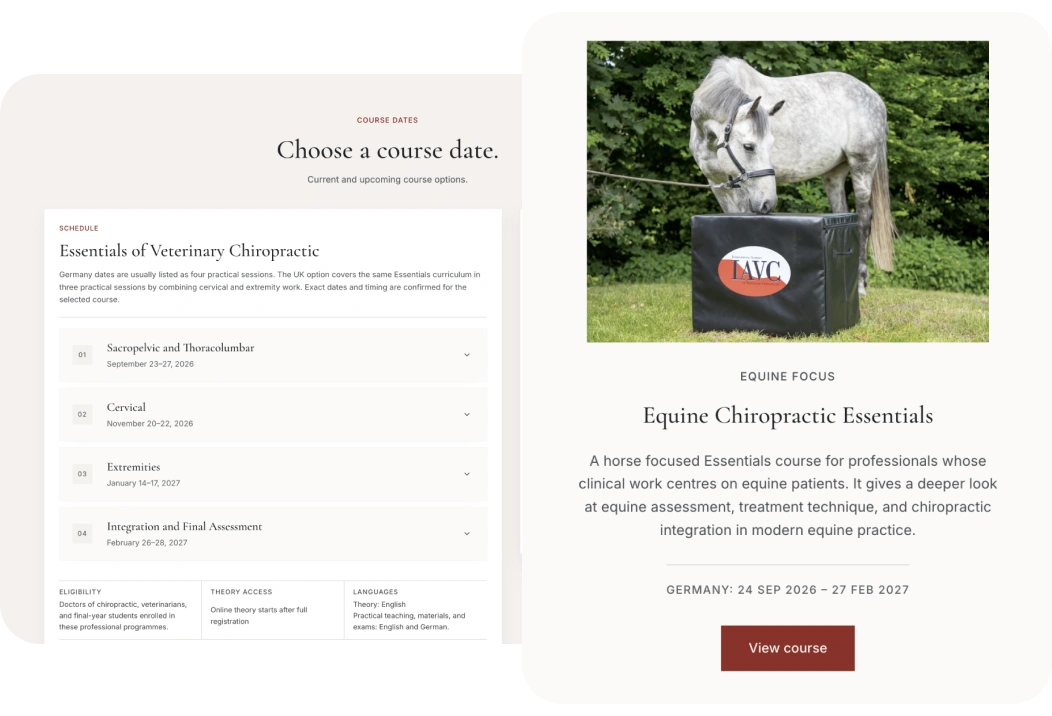
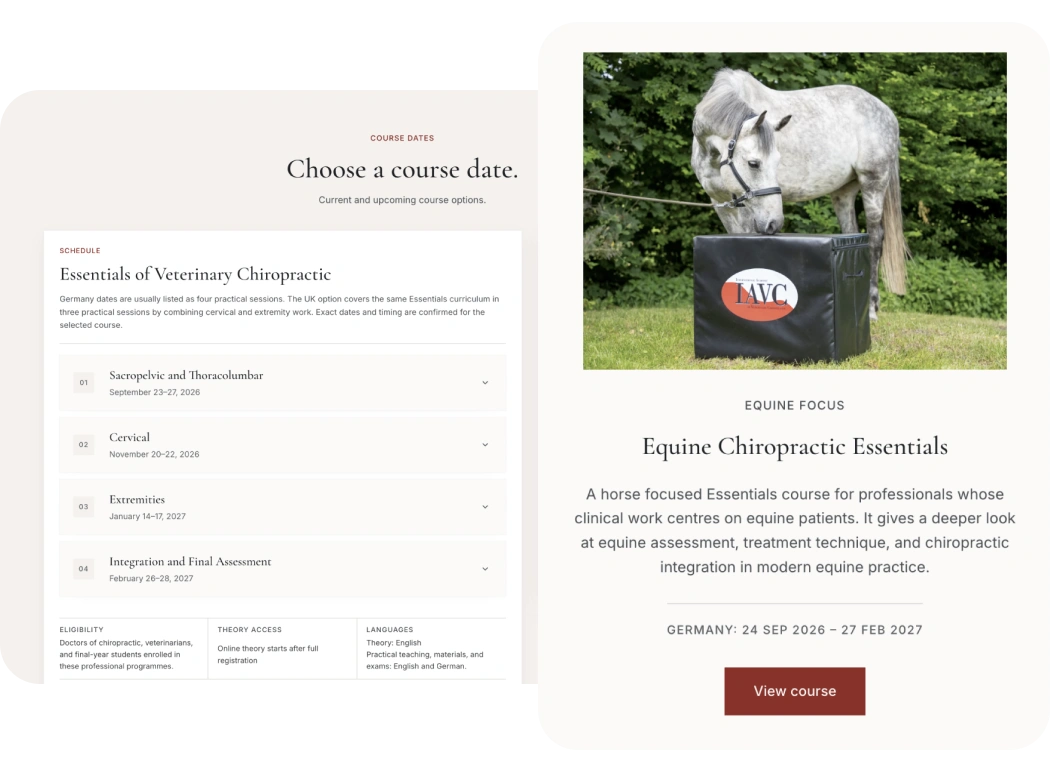
Refine responsive layout and case imagery

diff --git a/src/components/Header.module.css b/src/components/Header.module.css
@@ -55,14 +55,112 @@
 .menu > a:hover, .menu > a:focus-visible { background: var(--color-menu-hover); }
 .cta { justify-self: end; white-space: nowrap; height: auto; min-height: 44px; border-radius: var(--radius-button); }
 .cta:hover { text-decoration: none; }
-.toggle { display: none; }
+.toggle {
+  display: none;
+  width: 32px;
+  height: 32px;
+  padding: 5px;
+  color: var(--color-text-primary);
+  border: 0;
+  background: transparent;
+}
+
+.toggle span {
+  display: block;
+  width: 100%;
+  height: 1px;
+  margin-block: 4px;
+  background: currentColor;
+  transition: transform var(--duration-fast), opacity var(--duration-fast);
+}
+
+.toggle[aria-expanded='true'] span:first-child {
+  transform: translateY(5px) rotate(45deg);
+}
+
+.toggle[aria-expanded='true'] span:nth-child(2) {
+  opacity: 0;
+}
+
+.toggle[aria-expanded='true'] span:last-child {
+  transform: translateY(-5px) rotate(-45deg);
+}
+
 @media (max-width: 700px) {
-  .header { --header-top: var(--space-5); min-width: 0; display: flex; flex-wrap: wrap; justify-content: space-between; gap: 0; }
-  .toggle { display: flex; align-items: center; gap: var(--space-3); border: 0; background: transparent; min-height: 44px; padding: var(--space-3) var(--space-4); border-radius: var(--radius-button); }
-  .toggle:hover { background: var(--color-menu-hover); }
-  .nav { display: none; width: 100%; padding: var(--space-4) 0 var(--space-2); }
-  .open { display: flex; flex-direction: column; align-items: stretch; gap: var(--space-2); }
+  .header {
+    --header-top: var(--space-5);
+    min-width: 0;
+    grid-template-columns: minmax(0, 1fr) auto;
+    gap: var(--space-2);
+    background: transparent;
+    -webkit-backdrop-filter: none;
+    backdrop-filter: none;
+    box-shadow: none;
+  }
+
+  .header::before {
+    position: absolute;
+    z-index: -1;
+    inset: 0;
+    border-radius: inherit;
+    background: var(--color-header-glass);
+    -webkit-backdrop-filter: blur(var(--header-blur));
+    backdrop-filter: blur(var(--header-blur));
+    box-shadow:
+      0 2px 8px color-mix(in srgb, var(--color-text-primary) 2%, transparent),
+      0 12px 32px color-mix(in srgb, var(--color-text-primary) 4%, transparent);
+    content: '';
+  }
+
+  .toggle {
+    display: block;
+    margin-right: var(--space-2);
+  }
+  .toggle:hover,
+  .toggle[aria-expanded='true'],
+  .toggle[aria-expanded='true']:hover {
+    background: transparent;
+  }
+
+  .nav {
+    position: absolute;
+    top: calc(100% + var(--space-2));
+    right: 0;
+    left: 0;
+    width: 100%;
+    padding: var(--space-2);
+    display: flex;
+    flex-direction: column;
+    align-items: stretch;
+    gap: var(--space-2);
+    border: 1px solid color-mix(in srgb, var(--color-on-image) 38%, transparent);
+    border-radius: var(--radius-header);
+    background: var(--color-header-glass);
+    -webkit-backdrop-filter: blur(var(--header-blur)) saturate(125%);
+    backdrop-filter: blur(var(--header-blur)) saturate(125%);
+    box-shadow: 0 12px 32px color-mix(in srgb, var(--color-text-primary) 8%, transparent);
+    opacity: 0;
+    visibility: hidden;
+    pointer-events: none;
+    transform: translateY(-8px);
+    transition:
+      opacity var(--duration-fast),
+      transform var(--duration-fast),
+      visibility var(--duration-fast);
+  }
+
+  .open {
+    opacity: 1;
+    visibility: visible;
+    pointer-events: auto;
+    transform: translateY(0);
+  }
+
   .menu { flex-direction: column; align-items: stretch; }
+
+  .menu > a { justify-content: flex-start; }
+
+  .cta { width: 100%; }
 }
 
 @media (prefers-reduced-motion: reduce) {

diff --git a/src/data/content.ts b/src/data/content.ts
@@ -11,9 +11,9 @@ export const services: Service[] = [
   { title: 'Educational Platforms', icon: '/media/edu-icon.svg', description: 'We select and customize an LMS for your courses. We produce videos and course materials, upload lessons, and set up participant registration.' },
 ]
 export const cases: CaseStudy[] = [
-  { id: 'email-campaign', title: 'From choosing a service to a fully functional email campaign', description: 'We were asked to select a platform. We researched the options, set up the account, imported the contacts, and launched the campaign.', image: '/media/case-image-01.webp', alt: 'IAVC online course application form', width: 717, height: 663, surface: 'blue', before: ['Print the PDF.', 'Fill it out by hand.', 'Send a photo.'], after: ['Link from the email.', 'Fill out the form.', 'Submit the request.'], result: 'Course applications are now coming in through the online form.' },
-  { id: 'case-02', title: 'Website and Infrastructure', description: 'A new website with a CMS, migration of content and data. Domains and accounts are managed by the academy.', image: '/media/case-image-02.webp', alt: 'IAVC website shown at desktop and mobile sizes', width: 790, height: 460, surface: 'green' },
-  { id: 'case-03', title: 'Educational Platform', description: 'Selection of an LMS, preparation of videos and PDFs, lessons and questions developed in collaboration with instructors.', image: '/media/case-image-03.webp', alt: 'IAVC course listings for the horse and dog model and equine essentials', width: 790, height: 460, surface: 'greenStrong' },
+  { id: 'email-campaign', title: 'From choosing a service to a fully functional email campaign', description: 'We were asked to select a platform. We researched the options, set up the account, imported the contacts, and launched the campaign.', image: '/media/case-image-01.webp', alt: 'IAVC seminar request form with a successful submission confirmation', width: 1063, height: 772, surface: 'blue', before: ['Print the PDF.', 'Fill it out by hand.', 'Send a photo.'], after: ['Link from the email.', 'Fill out the form.', 'Submit the request.'], result: 'Course applications are now coming in through the online form.' },
+  { id: 'case-02', title: 'Website and Infrastructure', description: 'A new website with a CMS, migration of content and data. Domains and accounts are managed by the academy.', image: '/media/case-image-02.webp', alt: 'IAVC website homepage for animal chiropractic education', width: 1052, height: 772, surface: 'green' },
+  { id: 'case-03', title: 'Educational Platform', description: 'Selection of an LMS, preparation of videos and PDFs, lessons and questions developed in collaboration with instructors.', image: '/media/case-image-03.webp', alt: 'IAVC course schedule and equine chiropractic course page', width: 1052, height: 772, surface: 'greenStrong' },
 ]
 export const caseScreens: CaseScreen[] = [
   { id: 'email', cases: [cases[0]] },

diff --git a/src/sections/Experience.module.css b/src/sections/Experience.module.css
@@ -102,7 +102,7 @@
   width: min(var(--content-width), calc(100vw - var(--page-gutter) * 2));
   flex: 0 0 auto;
   display: grid;
-  grid-template-columns: minmax(0, 400px) minmax(0, 660px);
+  grid-template-columns: minmax(0, 450px) minmax(0, 660px);
   justify-content: space-between;
   align-items: center;
   gap: clamp(48px, 7vw, 120px);
@@ -111,12 +111,12 @@
 
 .caseCopy {
   width: 100%;
-  max-width: 400px;
+  max-width: 450px;
 }
 
 .caseCopy h3,
 .staticCopy h3 {
-  max-width: 400px;
+  max-width: 450px;
   margin-bottom: var(--space-6);
   font-family: var(--font-heading);
   font-size: 44px;
@@ -142,7 +142,7 @@
 }
 
 .description {
-  max-width: 400px;
+  max-width: 450px;
   color: var(--color-text-secondary);
   font-size: clamp(17px, 1.25vw, 20px);
   line-height: 1.55;
@@ -151,7 +151,7 @@
 .imageFrame {
   width: 100%;
   max-width: 660px;
-  aspect-ratio: 1.2;
+  aspect-ratio: 1.3;
   padding: clamp(40px, 2.6vw, 48px);
   display: grid;
   place-items: center;
@@ -193,7 +193,7 @@
 .comparison ul {
   padding: 0;
   list-style: none;
-  font-size: clamp(16px, 1.15vw, 19px);
+  font-size: var(--text-body);
   line-height: 1.75;
 }
 
@@ -215,7 +215,7 @@
 }
 
 .result {
-  max-width: 400px;
+  max-width: 450px;
   font-size: clamp(16px, 1.15vw, 19px);
   font-weight: 600;
   line-height: 1.5;
@@ -227,7 +227,6 @@
 
 @media (min-width: 1025px) {
   .description,
-  .comparison ul,
   .result {
     font-size: 16px;
   }
@@ -235,7 +234,7 @@
 
 @media (max-width: 1200px) and (min-width: 1025px) {
   .caseSlide {
-    grid-template-columns: minmax(0, 400px) minmax(0, 660px);
+    grid-template-columns: minmax(0, 450px) minmax(0, 660px);
     gap: 48px;
   }
 
@@ -248,7 +247,6 @@
     gap: 12px;
   }
 
-  .comparison ul,
   .result {
     font-size: 16px;
   }
@@ -284,7 +282,7 @@
 
   .staticCase {
     display: grid;
-    grid-template-columns: minmax(0, 400px) minmax(300px, 660px);
+    grid-template-columns: minmax(0, 450px) minmax(300px, 660px);
     justify-content: space-between;
     align-items: center;
     gap: var(--space-7);
@@ -309,7 +307,7 @@
     grid-column: 1;
     grid-row: 1;
     width: 100%;
-    max-width: 400px;
+    max-width: 450px;
   }
 
   .staticCopy h3 {
@@ -324,7 +322,7 @@
 
 @media (max-width: 700px) {
   .staticList {
-    gap: var(--space-8);
+    gap: var(--space-9);
   }
 
   .staticCase {
@@ -349,7 +347,7 @@
 
   .staticCopy h3 {
     margin-bottom: var(--space-4);
-    font-size: 34px;
+    font-size: 30px;
   }
 
   .comparison {
@@ -358,9 +356,8 @@
     margin-block: var(--space-6);
   }
 
-  .comparison ul,
   .result {
-    font-size: var(--text-small);
+    font-size: var(--text-body);
   }
 
   .arrow {

diff --git a/src/components/Header.tsx b/src/components/Header.tsx
@@ -64,7 +64,19 @@ export function Header() {
     onBlur={(event) => { if (!event.currentTarget.contains(event.relatedTarget)) setOpen(false) }}
   >
     <a className={styles.brand} href="#home" aria-label="WeHelp.vet home">WeHelp.vet</a>
-    <button ref={toggle} className={styles.toggle} aria-expanded={open} aria-controls="main-navigation" onClick={() => setOpen(!open)}>{open ? 'Close' : 'Menu'} <span aria-hidden="true">{open ? '×' : '☰'}</span></button>
+    <button
+      ref={toggle}
+      className={styles.toggle}
+      type="button"
+      aria-expanded={open}
+      aria-controls="main-navigation"
+      aria-label={open ? 'Close navigation' : 'Open navigation'}
+      onClick={() => setOpen(!open)}
+    >
+      <span aria-hidden="true" />
+      <span aria-hidden="true" />
+      <span aria-hidden="true" />
+    </button>
     <nav id="main-navigation" aria-label="Main navigation" className={`${styles.nav} ${open ? styles.open : ''}`}>
       <div className={styles.menu}>{navigation.map(link => <a key={link.href} href={link.href} onClick={() => setOpen(false)}>{link.label}</a>)}</div>
       <a className={`button ${styles.cta}`} href="#contact" onClick={() => setOpen(false)}>Let’s discuss</a>

diff --git a/src/sections/Contact.module.css b/src/sections/Contact.module.css
@@ -19,4 +19,8 @@
 .legal { margin-top: var(--space-3); color: var(--color-text-secondary); font-size: var(--text-label); }
 .status:not(:empty) { margin-top: var(--space-5); padding: var(--space-4); background: var(--color-surface-green); border-radius: var(--radius-control); font-size: var(--text-small); }
 @media(max-width: 900px) { .grid { grid-template-columns: 1fr; } .copy { max-width: 620px; } .form { width: 100%; max-width: 620px; } }
-@media(max-width: 400px) { .fields { grid-template-columns: 1fr; } .form { padding: var(--space-5); } }
+@media(max-width: 600px) {
+  .fields { grid-template-columns: 1fr; }
+  .form { padding: var(--space-5); }
+  .legal { margin-top: var(--space-5); line-height: 1.5; }
+}

diff --git a/src/sections/WhatWeDo.module.css b/src/sections/WhatWeDo.module.css
@@ -7,4 +7,8 @@
 .card p, .other { color: var(--color-text-secondary); }
 .other { text-align: center; margin-top: var(--space-7); }
 .other a { display: inline-flex; align-items: center; min-height: 44px; color: var(--color-text-primary); margin-inline: var(--space-2); }
-@media(max-width: 900px) { .grid { grid-template-columns: 1fr; } .card { padding: var(--space-6); } }
+@media(max-width: 900px) {
+  .grid { grid-template-columns: 1fr; }
+  .card { padding: var(--space-5); }
+  .card img, .card h3 { margin-bottom: var(--space-4); }
+}

diff --git a/src/styles/base.css b/src/styles/base.css
@@ -1,6 +1,7 @@
 *, *::before, *::after { box-sizing: border-box; }
 * { margin: 0; }
 html { scroll-behavior: smooth; scroll-padding-top: var(--space-10); }
+html, body { overscroll-behavior-y: none; }
 body { min-width: 320px; background: var(--color-background); color: var(--color-text-primary); }
 button, input, textarea { font: inherit; }
 button, a, input, textarea { -webkit-tap-highlight-color: transparent; }

diff --git a/src/styles/typography.css b/src/styles/typography.css
@@ -15,3 +15,10 @@ h1 { font-size: var(--text-display); line-height: var(--leading-display); }
 h2 { font-size: var(--text-h2); line-height: 1.08; }
 h3 { font-size: var(--text-large); line-height: 1.35; font-weight: 500; }
 p { text-wrap: pretty; }
+
+@media (max-width: 600px) {
+  :root {
+    --text-display: 48px;
+    --text-h2: 40px;
+  }
+}

diff --git a/src/components/LegalNotice.module.css b/src/components/LegalNotice.module.css
@@ -3,3 +3,10 @@
 .dialog::backdrop { background: var(--color-overlay); }
 .dialog h2 { font-size: var(--text-h3); }
 .dialog p { font-size: var(--text-body); margin-block: var(--space-5); }
+
+@media (max-width: 600px) {
+  .link {
+    min-height: 26px;
+    padding: 0;
+  }
+}

diff --git a/src/sections/HowWeWork.module.css b/src/sections/HowWeWork.module.css
@@ -109,6 +109,14 @@
     margin-bottom: var(--space-4);
   }
 
+  .number {
+    font-size: var(--text-body);
+  }
+
+  .content h3 {
+    font-size: var(--text-h3);
+  }
+
   .content > p:last-child {
     font-size: var(--text-body);
   }
